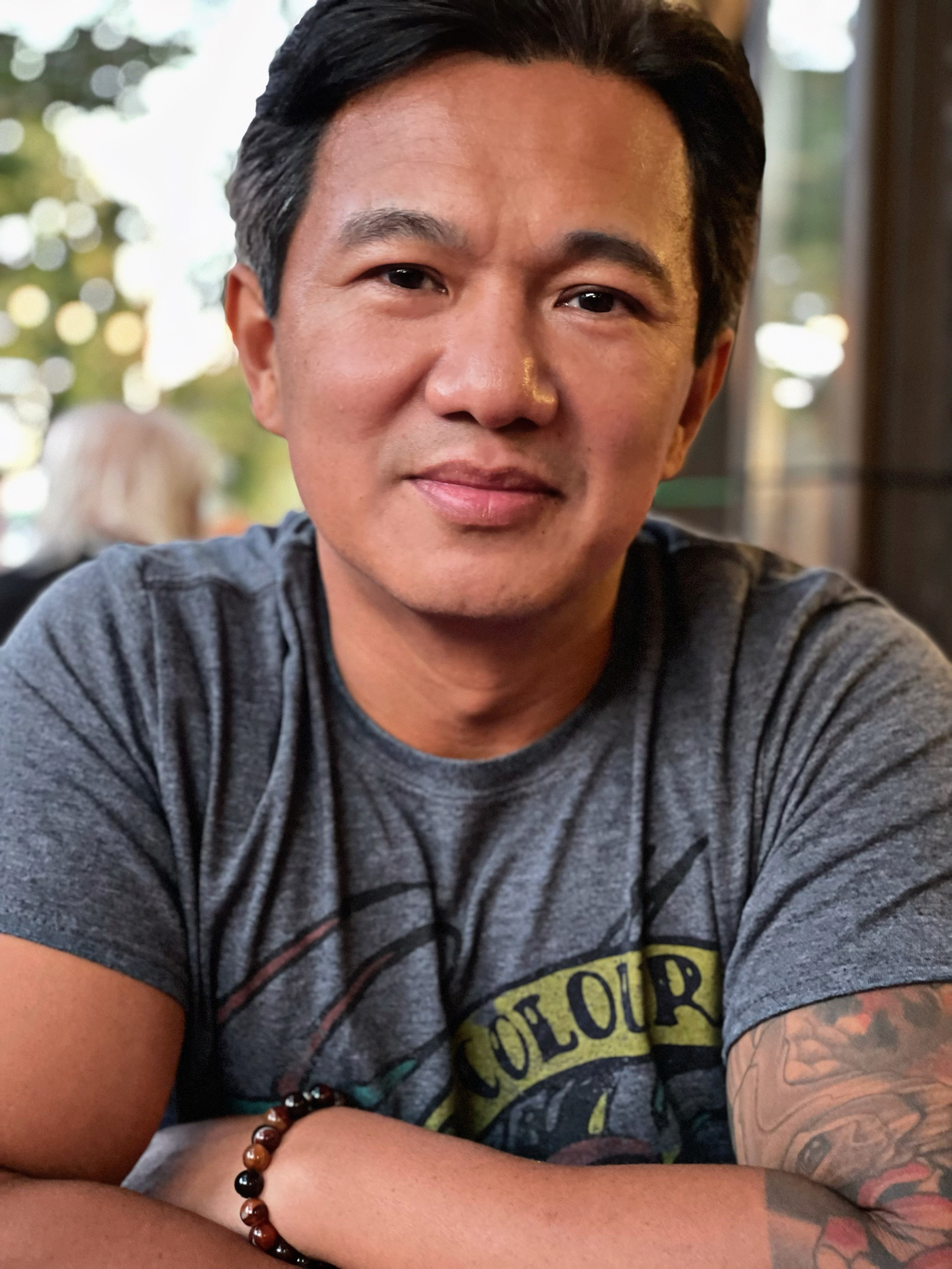
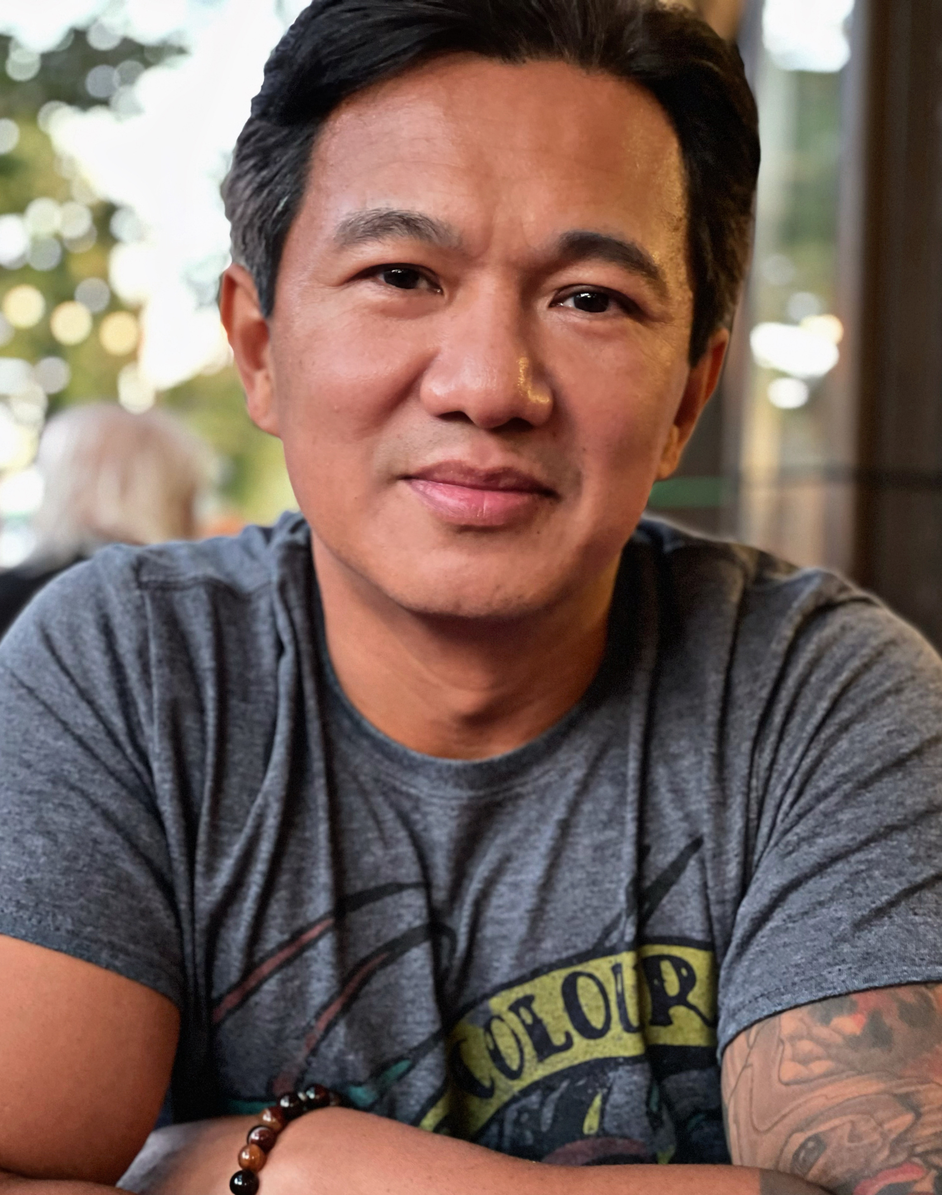
updated profile pic

diff --git a/src/index.css b/src/index.css
@@ -350,7 +350,7 @@ footer {
 }
 
 .photo {
-	width: auto;
+	width: 100%;
 	height: auto;
 	max-width: 380px;
 	max-height: 540px;
